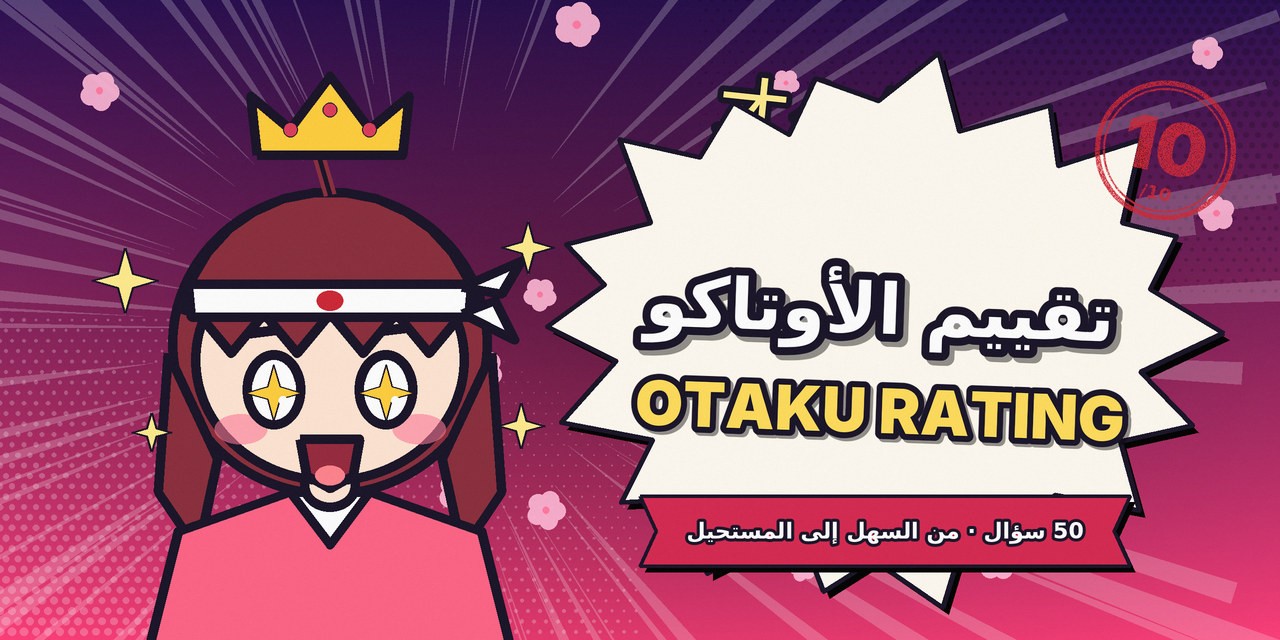
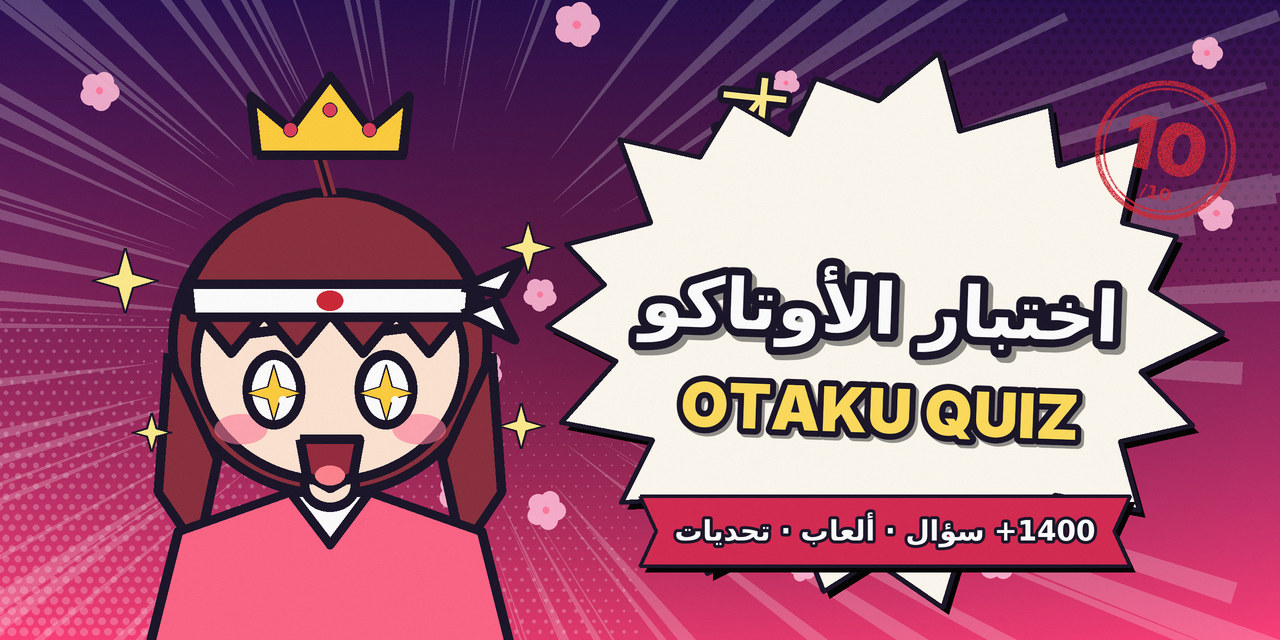
إعادة التسمية: اختبار الأوتاكو (البانر والنصوص والبطاقة) + إبطال معرّف البانر المخزَّن تلقائيًا عند تغيّره
Claude-Session: https://claude.ai/code/session_01KGDmqpKPFT3eHbpsqXLyf4

Changed region(s): [[0.4688, 0.4062, 0.9062, 0.7188], [0.5312, 0.7812, 0.875, 0.875]]

diff --git a/otaku_bot/texts.py b/otaku_bot/texts.py
@@ -7,7 +7,7 @@ from .config import CATEGORY_LABELS, CATEGORY_LABELS_EN
 
 T: dict[str, dict[str, str]] = {
 "ar": {
- "welcome": "أهلًا بك في <b>بوت تقييم الأوتاكو</b> 🎌\n\nنختبر معرفتك بالأنمي بأسئلة بأربعة اختيارات من الأسهل للأصعب، وتحصل على <b>تقييم من 10 ولقب</b>!\nالأسئلة الصعبة تُحسب بوزن أكبر.\n\nاختر طريقة اللعب:",
+ "welcome": "أهلًا بك في <b>بوت اختبار الأوتاكو</b> 🎌\n\nاختبر معرفتك بالأنمي: أكثر من <b>1400 سؤال</b> من الأسهل للأصعب، وألعاب، وتحدٍّ يومي، ومواجهات ومسابقات في المجموعات والقنوات.\nتحصل على <b>تقييم من 10 ولقب ومستوى وإنجازات</b>!\n\nاختر طريقة اللعب:",
  "challenge_banner": "\n\n⚔ <b>{name}</b> تحداك! حصل على <b>{score}/10</b> ويلقّب <b>{title}</b>.\nتقبل التحدي بنفس الأسئلة؟",
  "btn_full": "🎯 الاختبار الكامل (50 سؤال)", "btn_quick": "⚡ اختبار سريع (10 أسئلة)",
  "btn_cat": "📂 حسب التصنيف", "btn_sudden": "☠ الموت المفاجئ", "btn_games": "🎮 ألعاب أخرى",
@@ -45,7 +45,7 @@ T: dict[str, dict[str, str]] = {
  "prof_rank": "🌍 ترتيبك العام: <b>#{rank}</b>", "prof_week": "📅 ترتيبك هذا الأسبوع: <b>#{rank}</b>",
  "prof_tests": "🎯 الاختبارات الكاملة: {n}", "prof_acc": "✅ دقتك الكلية: {pct}% ({ok}/{n})",
  "prof_sudden": "☠ أفضل «موت مفاجئ»: {n}", "prof_cat": "💪 أقوى تصنيفاتك:",
- "prof_share": "ملفي في بوت تقييم الأوتاكو: {score}/10 — {title}! تقدر تغلبني؟",
+ "prof_share": "ملفي في بوت اختبار الأوتاكو: {score}/10 — {title}! تقدر تغلبني؟",
  "fin_head": "🏁 <b>انتهى التقييم يا {name}!</b>", "res_score": "⭐ التقييم: <b>{score} / 10</b>", "res_title": "🏷 اللقب: <b>{title}</b>",
  "res_correct": "✅ الإجابات الصحيحة: {c}/{t}", "res_pct": "📊 أفضل من {p}% من اللاعبين", "res_cat": "<b>حسب التصنيف:</b>",
  "res_suspect": "⚠ إجاباتك كانت سريعة جدًا؛ لن تُحتسب النتيجة في المتصدرين.",
@@ -57,7 +57,7 @@ T: dict[str, dict[str, str]] = {
  "vs_dm": "⚔ <b>{name}</b> قبل تحداك!\nأنت: <b>{them}</b>  ·  {name}: <b>{me}</b>\n{verdict}",
  "vs_dm_win": "🔥 فزت!", "vs_dm_lose": "😅 خسرت هذه الجولة", "vs_dm_draw": "🤝 تعادل!",
  "btn_again": "🔁 اختبار جديد", "btn_menu": "🏠 القائمة", "btn_share": "📤 تحدَّ صديقك", "btn_report": "🚩 أبلغ عن سؤال",
- "share_text": "حصلت على {score}/10 وصرت «{title}» في بوت تقييم الأوتاكو! تقدر تغلبني بنفس الأسئلة؟",
+ "share_text": "حصلت على {score}/10 وصرت «{title}» في بوت اختبار الأوتاكو! تقدر تغلبني بنفس الأسئلة؟",
  "ch_gone": "هذا التحدي لم يعد متاحًا.", "ch_self": "هذا تحديك أنت 😄 شاركه مع أصدقائك!",
  "ch_done": "سبق وخضت هذا التحدي ✅ نتيجتك: <b>{score}/10</b>",
  "lb_all": "🌍 <b>التقييم العام — أفضل 10 أوتاكو</b>\nحسب أفضل تقييم لكل لاعب في الاختبار الكامل", "lb_week": "📅 <b>متصدرو الأسبوع</b>\nيتصفر كل أحد 00:00 (توقيت مكة)",
@@ -84,7 +84,7 @@ T: dict[str, dict[str, str]] = {
  "g_again": "🔁 العب مرة ثانية", "g_stale": "هذه الجولة انتهت",
 },
 "en": {
- "welcome": "Welcome to the <b>Otaku Rating Bot</b> 🎌\n\nWe test your anime knowledge with 4-choice questions from easy to hard, and you get a <b>score out of 10 and a title</b>!\nHarder questions are worth more.\n\nPick a mode:",
+ "welcome": "Welcome to the <b>Otaku Quiz Bot</b> 🎌\n\nTest your anime knowledge: <b>1400+ questions</b> from easy to hard, games, a daily challenge, duels and contests in groups and channels.\nYou get a <b>score out of 10, a title, a level and achievements</b>!\n\nPick a mode:",
  "challenge_banner": "\n\n⚔ <b>{name}</b> challenged you! They scored <b>{score}/10</b> and are <b>{title}</b>.\nAccept the challenge with the same questions?",
  "btn_full": "🎯 Full test (50 questions)", "btn_quick": "⚡ Quick test (10 questions)",
  "btn_cat": "📂 By category", "btn_sudden": "☠ Sudden death", "btn_games": "🎮 Other games",
@@ -122,7 +122,7 @@ T: dict[str, dict[str, str]] = {
  "prof_rank": "🌍 Overall rank: <b>#{rank}</b>", "prof_week": "📅 Rank this week: <b>#{rank}</b>",
  "prof_tests": "🎯 Full tests taken: {n}", "prof_acc": "✅ Overall accuracy: {pct}% ({ok}/{n})",
  "prof_sudden": "☠ Best “sudden death”: {n}", "prof_cat": "💪 Your strongest categories:",
- "prof_share": "My Otaku Rating profile: {score}/10 — {title}! Can you beat me?",
+ "prof_share": "My Otaku Quiz profile: {score}/10 — {title}! Can you beat me?",
  "fin_head": "🏁 <b>Test complete, {name}!</b>", "res_score": "⭐ Score: <b>{score} / 10</b>", "res_title": "🏷 Title: <b>{title}</b>",
  "res_correct": "✅ Correct answers: {c}/{t}", "res_pct": "📊 Better than {p}% of players", "res_cat": "<b>By category:</b>",
  "res_suspect": "⚠ Your answers were suspiciously fast; this result won't count on the leaderboard.",
@@ -134,7 +134,7 @@ T: dict[str, dict[str, str]] = {
  "vs_dm": "⚔ <b>{name}</b> accepted your challenge!\nYou: <b>{them}</b>  ·  {name}: <b>{me}</b>\n{verdict}",
  "vs_dm_win": "🔥 You won!", "vs_dm_lose": "😅 You lost this round", "vs_dm_draw": "🤝 Draw!",
  "btn_again": "🔁 New test", "btn_menu": "🏠 Menu", "btn_share": "📤 Challenge a friend", "btn_report": "🚩 Report a question",
- "share_text": "I scored {score}/10 and became “{title}” in the Otaku Rating Bot! Can you beat me on the same questions?",
+ "share_text": "I scored {score}/10 and became “{title}” in the Otaku Quiz Bot! Can you beat me on the same questions?",
  "ch_gone": "This challenge is no longer available.", "ch_self": "That's your own challenge 😄 Share it with friends!",
  "ch_done": "You already took this challenge ✅ Your score: <b>{score}/10</b>",
  "lb_all": "🌍 <b>Overall rating — Top 10 Otaku</b>\nBy each player's best full-test score", "lb_week": "📅 <b>Weekly leaderboard</b>\nResets every Sunday 00:00 (Mecca time)",
@@ -181,7 +181,7 @@ def cat_label(lang: str, cat: str) -> str:
 # نحافظ على نفس المتغيرات {name} {ans} ... وعلى الكلمات المفتاحية التي تعتمد عليها الاختبارات.
 T["ar"].update({
  "mode_quick": "اختبار سريع",
- "welcome": "يا هلا والله {name}! 🎌\n\nتحسب نفسك تعرف الأنمي؟ خلنا نشوف! أسئلة بأربع اختيارات تبدأ سهلة وتشتد معك، وفي الآخر تاخذ تقييم من 10 ولقب تفتخر فيه.\nوالسؤال الصعب يوزن أكثر، فلا تستخف فيه 😏\n\nوش تبي تلعب؟",
+ "welcome": "يا هلا والله {name}! 🎌\n\nهذا <b>بوت اختبار الأوتاكو</b>: تحسب نفسك تعرف الأنمي؟ خلنا نشوف! أكثر من 1400 سؤال تبدأ سهلة وتشتد معك، وألعاب وتحديات، وفي الآخر تاخذ تقييم من 10 ولقب ومستوى تفتخر فيهم.\nوالسؤال الصعب يوزن أكثر، فلا تستخف فيه 😏\n\nوش تبي تلعب؟",
  "challenge_banner": "\n\n⚔ <b>{name}</b> يتحداك! جاب <b>{score}/10</b> ولقبه «{title}».\nتجرؤ تواجهه بنفس الأسئلة؟",
  "toast_ok": ["✅ صح عليك!", "✅ كفو!", "✅ ناكاما! 💪", "✅ هذا هو!", "✅ ضربة معلم 🔥", "✅ ما شاء الله"],
  "toast_bad": ["❌ لا… الجواب: {ans}", "❌ قربت! الجواب: {ans}", "❌ أوه لا، الجواب: {ans}", "❌ مو هذا، الجواب: {ans}"],
@@ -337,7 +337,7 @@ T["ar"].update({
     "iv_head": "👥 <b>ادعُ أصدقاءك</b>\nتُحسب الدعوة بعد أن يكمل صديقك أول اختبار كامل ويشترك بالقناة، وتأخذ ألقابًا خاصة.",
     "iv_count": "📨 دعواتك المكتملة: {n}", "iv_badge": "🏅 لقبك: {b}", "iv_nobadge": "🏅 لا لقب بعد، أول دعوة تعطيك لقبًا!",
     "iv_next": "🎯 باقي {k} للقب {b}", "iv_btn": "📤 شارك رابط الدعوة",
-    "iv_share": "تعال جرّب تقييم الأوتاكو، شف كم تجيب من 10 🔥",
+    "iv_share": "تعال جرّب اختبار الأوتاكو، شف كم تجيب من 10 🔥",
     "iv_joined": "🎉 صديقك أكمل أول اختبار واشترك! دعواتك المكتملة: {n}", "iv_badge_up": "🏅 ترقّيت للقب: {b}",
 })
 T["en"].update({
@@ -345,7 +345,7 @@ T["en"].update({
     "iv_head": "👥 <b>Invite friends</b>\nAn invite counts once your friend finishes a full test and joins the channel. Earn special badges.",
     "iv_count": "📨 Completed invites: {n}", "iv_badge": "🏅 Your badge: {b}", "iv_nobadge": "🏅 No badge yet, your first invite earns one!",
     "iv_next": "🎯 {k} more for {b}", "iv_btn": "📤 Share invite link",
-    "iv_share": "Come try the Otaku Rating, see what you score out of 10 🔥",
+    "iv_share": "Come try the Otaku Quiz, see what you score out of 10 🔥",
     "iv_joined": "🎉 Your friend finished a first test and joined! Completed invites: {n}", "iv_badge_up": "🏅 New badge: {b}",
 })
 
@@ -460,7 +460,7 @@ T["ar"].update({
     "gp_ord_q": "📅 أيّ هذه الأعمال عُرض أولًا؟",
     "gp_top": "🏆 <b>متصدرو المجموعة</b>\n\n📅 <b>هذا الأسبوع</b>\n{week}\n\n🌍 <b>كل الأوقات</b>\n{all}",
     "gp_lang_set": "🌐 لغة ألعاب المجموعة: العربية.",
-    "gp_help": "🎌 <b>تقييم الأوتاكو</b>\nللعب مع الأصدقاء هنا اكتب /play أو أحد الأوامر: /quiz /sudden /tf /song /char /quote /order /images\n/gtop متصدرو المجموعة · /gstop إيقاف اللعبة · /glang تغيير اللغة (للأدمن)\nولاختبارك الشخصي افتح البوت بالخاص.",
+    "gp_help": "🎌 <b>اختبار الأوتاكو</b>\nللعب مع الأصدقاء هنا اكتب /play أو أحد الأوامر: /quiz /sudden /tf /song /char /quote /order /images\n/gtop متصدرو المجموعة · /gstop إيقاف اللعبة · /glang تغيير اللغة (للأدمن)\nولاختبارك الشخصي افتح البوت بالخاص.",
     "gp_open_private": "💬 افتح البوت بالخاص",
 })
 T["en"].update({
@@ -487,7 +487,7 @@ T["en"].update({
     "gp_ord_q": "📅 Which of these aired first?",
     "gp_top": "🏆 <b>Group leaderboard</b>\n\n📅 <b>This week</b>\n{week}\n\n🌍 <b>All time</b>\n{all}",
     "gp_lang_set": "🌐 Group games language: English.",
-    "gp_help": "🎌 <b>Otaku Rating</b>\nTo play with friends here use /play or: /quiz /sudden /tf /song /char /quote /order /images\n/gtop group leaderboard · /gstop stop the game · /glang switch language (admins)\nFor your personal test open the bot in private.",
+    "gp_help": "🎌 <b>Otaku Quiz</b>\nTo play with friends here use /play or: /quiz /sudden /tf /song /char /quote /order /images\n/gtop group leaderboard · /gstop stop the game · /glang switch language (admins)\nFor your personal test open the bot in private.",
     "gp_open_private": "💬 Open the bot in private",
 })
 
@@ -630,7 +630,7 @@ T["en"].update({
 T["ar"].update({
     "tm_none": "🛡 <b>العشائر</b>\nانضم لعشيرة أو أنشئ عشيرتك! تتنافس العشائر بمجموع خبرة أعضائها كل أسبوع، ويراها الجميع في الترتيب.\n<i>الحد الأقصى 30 عضوًا للعشيرة.</i>",
     "tm_create": "➕ أنشئ عشيرة", "tm_join_list": "🔍 انضم لعشيرة", "tm_rank_btn": "🏆 ترتيب العشائر", "tm_leave": "🚪 غادر العشيرة",
-    "tm_invite": "📤 ادعُ لعشيرتك", "tm_invite_text": "انضم لعشيرتي «{name}» في بوت تقييم الأوتاكو ⚔",
+    "tm_invite": "📤 ادعُ لعشيرتك", "tm_invite_text": "انضم لعشيرتي «{name}» في بوت اختبار الأوتاكو ⚔",
     "tm_view": "🛡 <b>{name}</b>\n👥 الأعضاء: {n}/{mx} · القائد: {leader}\n⭐ خبرة العشيرة هذا الأسبوع: <b>{wxp}</b> · ترتيبها: <b>#{rank}</b>\n\n<b>أفضل الأعضاء هذا الأسبوع</b>\n{rows}",
     "tm_ask_name": "اكتب اسم عشيرتك (من {a} إلى {b} حرفًا، بدون روابط):", "tm_name_len": "الاسم من {a} إلى {b} حرفًا من فضلك.",
     "tm_name_bad": "الاسم غير مناسب، جرّب اسمًا آخر.", "tm_taken": "هذا الاسم مستخدم، اختر اسمًا آخر.",
@@ -646,7 +646,7 @@ T["ar"].update({
 T["en"].update({
     "tm_none": "🛡 <b>Clans</b>\nJoin a clan or create your own! Clans compete by their members' total XP every week, visible to everyone in the rankings.\n<i>Max 30 members per clan.</i>",
     "tm_create": "➕ Create a clan", "tm_join_list": "🔍 Join a clan", "tm_rank_btn": "🏆 Clan ranking", "tm_leave": "🚪 Leave clan",
-    "tm_invite": "📤 Invite to your clan", "tm_invite_text": "Join my clan “{name}” in the Otaku Rating bot ⚔",
+    "tm_invite": "📤 Invite to your clan", "tm_invite_text": "Join my clan “{name}” in the Otaku Quiz bot ⚔",
     "tm_view": "🛡 <b>{name}</b>\n👥 Members: {n}/{mx} · Leader: {leader}\n⭐ Clan XP this week: <b>{wxp}</b> · Rank: <b>#{rank}</b>\n\n<b>Top members this week</b>\n{rows}",
     "tm_ask_name": "Write your clan's name ({a} to {b} characters, no links):", "tm_name_len": "The name must be {a} to {b} characters.",
     "tm_name_bad": "That name isn't allowed, try another.", "tm_taken": "That name is taken, pick another.",

diff --git a/otaku_bot/card.py b/otaku_bot/card.py
@@ -255,11 +255,11 @@ def make_banner(lang: str = "ar", handle: str = "@Otaku1GalaxyBot") -> bytes:
     if has_jp():
         c.text((820, 118), "オタク", "jp", 84, fill=(255, 235, 140), stroke=6, rotate=-6, arabic=False)
     c.starburst((880, 330), 330, 270, spikes=18, fill=PAPER, width=5)
-    ar = "تقييم الأوتاكو"
+    ar = "اختبار الأوتاكو"
     c.text((880, 310), ar, "ar", c.fit(ar, "ar", 92, 480), fill=(255, 255, 255), stroke=8, shadow=5, rotate=-2)
-    c.text((880, 410), "OTAKU RATING", "display", 62, fill=(255, 220, 90), stroke=6, shadow=3, arabic=False, rotate=-2)
+    c.text((880, 410), "OTAKU QUIZ", "display", 62, fill=(255, 220, 90), stroke=6, shadow=3, arabic=False, rotate=-2)
     _ribbon(c, (640, 496, 1130, 566), (214, 40, 80))
-    tag = "50 سؤال · من السهل إلى المستحيل" if lang == "ar" else "50 questions · easy to impossible"
+    tag = "1400+ سؤال · ألعاب · تحديات" if lang == "ar" else "1400+ questions · games · challenges"
     c.text((885, 531), tag, "ar", c.fit(tag, "ar", 34, 430), fill=(255, 255, 255), stroke=3)
     c.hanko((1165, 150), 70, "10", "/10", angle=-12)
     return c.jpeg(grain=0.04)

diff --git a/tests/test_design.py b/tests/test_design.py
@@ -80,13 +80,15 @@ def test_start_sends_banner_with_menu_caches_file_id_and_falls_back():
         data = {b.callback_data for row in m.reply_markup.inline_keyboard for b in row}
         assert {"go", "qk", "m:games", "pf"} <= data
         # معرّف صورة مخزَّن: لا نرفع الملف ثانية
-        h.db.set_setting("banner_fid_ar", "CACHED_FID")
+        from otaku_bot.config import ROOT as _R
+        bkey = f"banner_fid_ar_{(_R / 'assets' / 'banner.jpg').stat().st_size}"
+        h.db.set_setting(bkey, "CACHED_FID")
         await h.say(h.user(2), "/start")
         assert last_menu_call(h).photo == "CACHED_FID"
         # فشل الصورة (معرّف قديم): يرجع للنص ويمسح المعرّف التالف
         h.session.bad_photos = {"CACHED_FID"}
         await h.say(h.user(3), "/start")
-        assert type(last_menu_call(h)).__name__ == "SendMessage" and h.db.get_setting("banner_fid_ar") == ""
+        assert type(last_menu_call(h)).__name__ == "SendMessage" and h.db.get_setting(bkey) == ""
         # الإنجليزية: بانر ونص إنجليزي
         en = h.user(4, "Sam", lang="en")
         await h.say(en, "/start")

diff --git a/otaku_bot/bot.py b/otaku_bot/bot.py
@@ -725,7 +725,8 @@ def build_router(ctx: Ctx) -> Router:
     async def send_welcome(m: Message, L: str, text: str, markup) -> None:
         """بانر مرسوم (assets/banner*.png) + نص الترحيب في رسالة واحدة. معرّف الصورة يُخزَّن فلا تُرفع كل مرة."""
         path = ROOT / "assets" / ("banner_en.jpg" if L == "en" else "banner.jpg")
-        key = f"banner_fid_{L}"
+        # يتضمن حجم الملف: أي تعديل على البانر يُبطل المعرّف المخزَّن تلقائيًا فيُرفع الجديد
+        key = f"banner_fid_{L}_{path.stat().st_size if path.is_file() else 0}"
         fid = db.get_setting(key, "") or None
         if fid or path.is_file():
             try:

diff --git a/otaku_bot/__init__.py b/otaku_bot/__init__.py
@@ -1,10 +1,10 @@
-"""بوت تليجرام لتقييم الأوتاكو."""
+"""بوت تليجرام لاختبار الأوتاكو."""
 import os
 import socket
 import time
 
 # يتغير مع كل نسخة؛ يظهر في /myid لتعرف أي نسخة هي التي ترد عليك
-VERSION = "2026-11-19-f"
+VERSION = "2026-11-19-g"
 # هوية هذه العملية بالذات: اسم الجهاز + رقم العملية. لو ردّ عليك /myid بهويتين مختلفتين فعندك نسختان شغالتان
 INSTANCE = f"{socket.gethostname()[:14]}-{os.getpid()}"
 STARTED = time.time()

diff --git a/README.md b/README.md
@@ -1,4 +1,4 @@
-# بوت تقييم الأوتاكو 🎌 / Otaku Rating Bot
+# بوت اختبار الأوتاكو 🎌 / Otaku Quiz Bot
 
 بوت تليجرام يختبر معرفتك بالأنمي ويقيّمك **من 10** بلقب (حتى **ملك الأوتاكو 👑**). عربي وإنجليزي.
 
